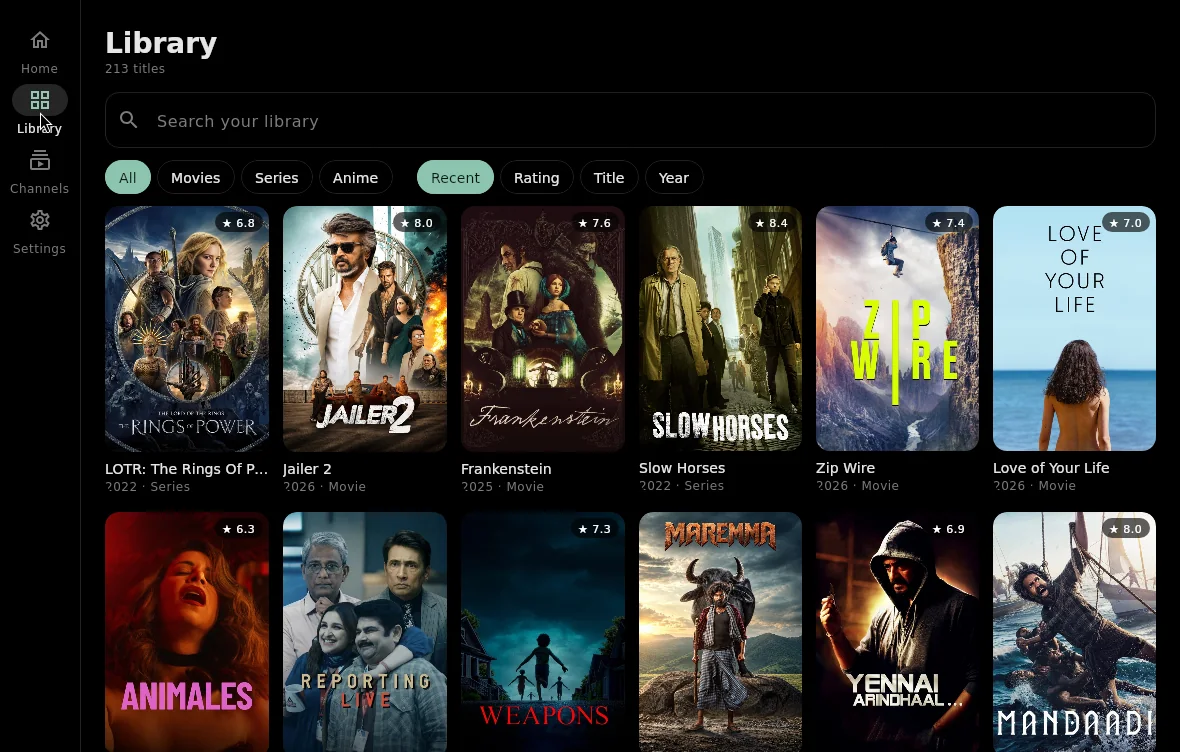
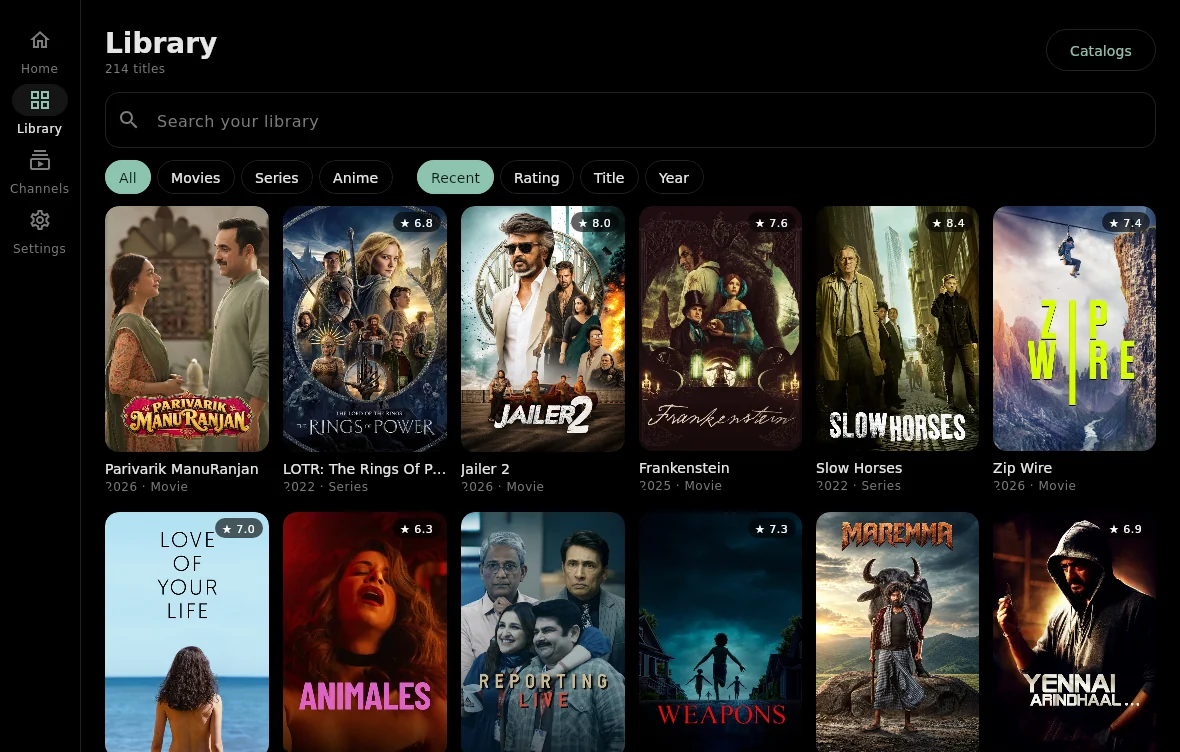
New desktop screenshots in all three palettes, and a Catalogs screen
Fresh captures of the current desktop app with a full library (Home,
Library, Title, Channels, Settings and the new Catalogs page); chat ids
blurred and the TMDB key masked. The Screens section gets a Catalogs
tab.

diff --git a/assets/site.js b/assets/site.js
@@ -48,6 +48,8 @@
       ["Backdrop, poster, cast, genres and runtime", "Each file with its quality and size", "Remove a bad copy in one tap"]],
     channels: ["Channels", "Point the app at your channels and groups. It indexes posts as they arrive.",
       ["Add by @username, t.me link or chat id", "Mark anime channels for absolute episode numbers", "Scan, rescan or stop with live progress"]],
+    catalogs: ["Catalogs", "Rows of your own in Stremio and Nuvio, next to the ones TMDB fills by itself.",
+      ["Make, rename, reorder or hide your own catalogs", "Add a title from its page", "Auto catalogs by language, OTT service and Latest Releases"]],
     settings: ["Settings", "Metadata keys and language, catalog rules, stream preferences, server, backups and appearance.",
       ["46 metadata languages with English fallback", "Preferred quality and size limits", "Back up the catalog to your Saved Messages"]],
   };
@@ -58,7 +60,7 @@
     const img = document.querySelector("#screen-img");
     if (img) { img.dataset.shot = key; img.alt = `TeleStremio ${title} screen`; }
     const phone = document.querySelector("#phone-img");
-    if (phone) { phone.dataset.shot = `phone-${key}`; phone.alt = `TeleStremio ${title} screen on Android`; }
+    if (phone) { phone.dataset.shot = `phone-${key === "catalogs" ? "library" : key}`; phone.alt = `TeleStremio ${title} screen on Android`; }
     swapShots();
     const note = document.querySelector(".screen-note");
     if (note) {

diff --git a/index.html b/index.html
@@ -142,6 +142,7 @@
         <button class="tab" role="tab" data-screen="library" aria-selected="false">Library</button>
         <button class="tab" role="tab" data-screen="title" aria-selected="false">Title page</button>
         <button class="tab" role="tab" data-screen="channels" aria-selected="false">Channels</button>
+        <button class="tab" role="tab" data-screen="catalogs" aria-selected="false">Catalogs</button>
         <button class="tab" role="tab" data-screen="settings" aria-selected="false">Settings</button>
       </div>
       <div class="screens">
